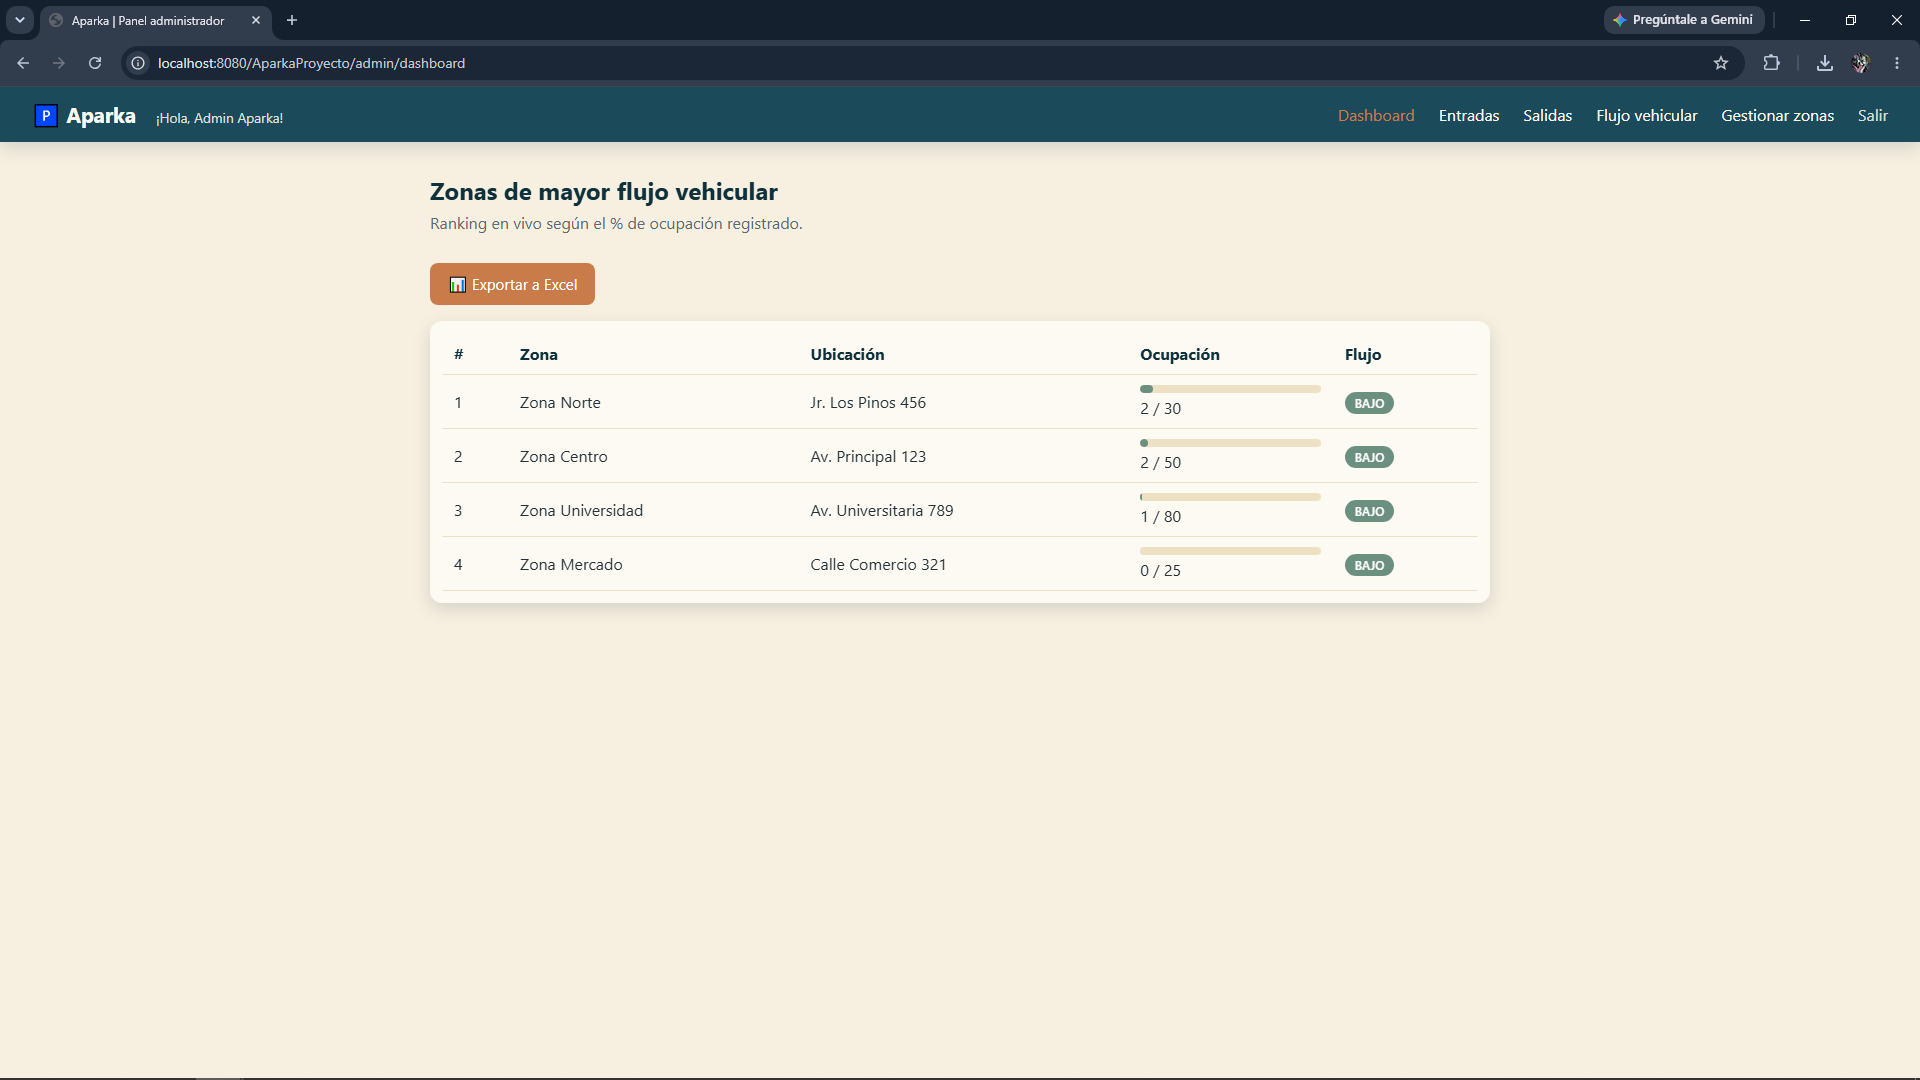
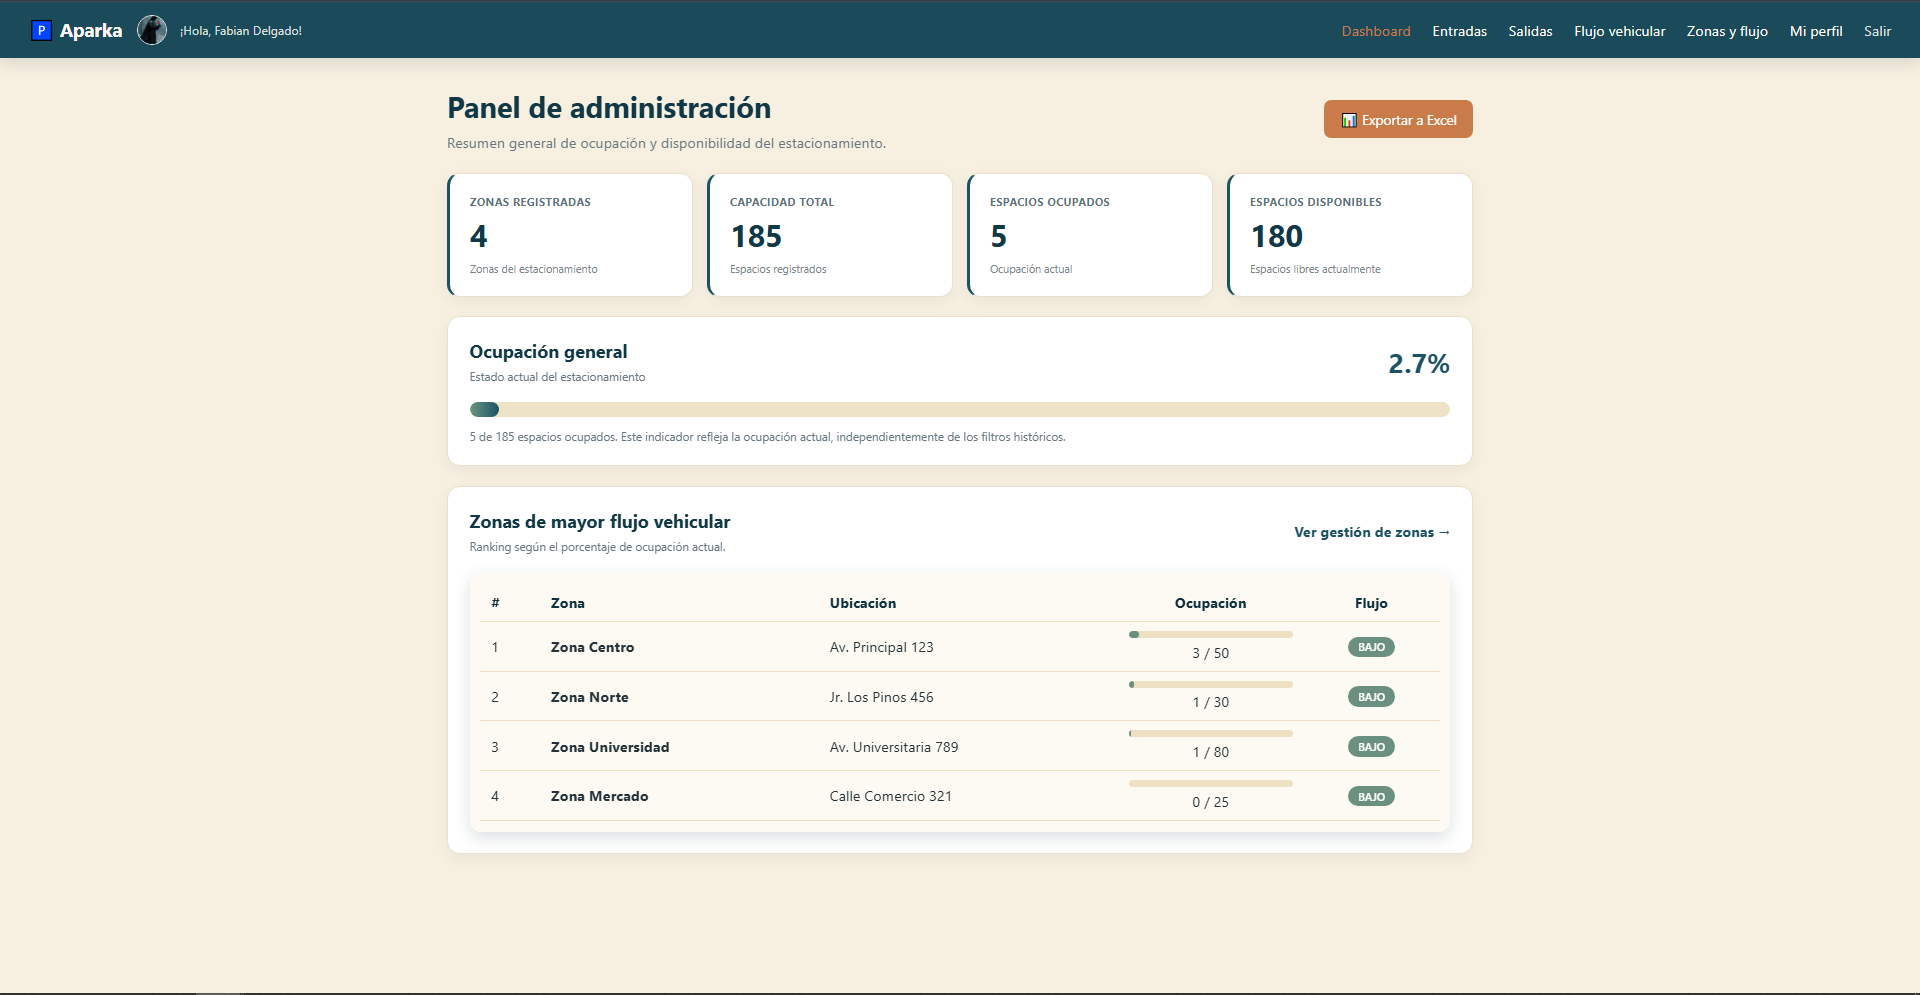
docs: actualizar README APF3 y capturas de APARKA

diff --git a/README.md b/README.md
@@ -1,99 +1,190 @@
-# APARKA — Sistema web de gestión de estacionamientos
+# 🅿 APARKA — Sistema web de gestión de estacionamientos
 
-Proyecto académico desarrollado en **Java (Servlets y JSP)** para gestionar operaciones de estacionamiento y consultar la ocupación y el flujo vehicular por zonas.
+**APARKA** es un proyecto académico desarrollado con **Java, Jakarta Servlets y JSP** para gestionar ingresos y salidas vehiculares, consultar disponibilidad y analizar el flujo de vehículos por zonas de estacionamiento.
 
-## Funcionalidades implementadas en el código
+![Java](https://img.shields.io/badge/Java-17%2B-orange) ![Jakarta](https://img.shields.io/badge/Jakarta-Servlets%20%26%20JSP-blue) ![MySQL](https://img.shields.io/badge/Base%20de%20datos-MySQL-4479A1) ![Maven](https://img.shields.io/badge/Build-Maven-C71A36) ![JUnit](https://img.shields.io/badge/JUnit-80%20pruebas%20aprobadas-25A162) ![Tomcat](https://img.shields.io/badge/Servidor-Tomcat%2011-F8DC75)
 
-- **Autenticación:** inicio y cierre de sesión, registro y recuperación de contraseña.
-- **Usuarios:** consulta de zonas, reserva, registro de entrada vehicular y edición de perfil/foto.
-- **Administración:** dashboard, consulta de flujo vehicular, mapa de calor, gestión de zonas, registro de entradas y salidas, gestión de cajas y exportación de reportes Excel.
+> **Estado verificado el 23/10/2026:** el Pull Request [#3](https://github.com/Nicolas130599/AparkaProyecto/pull/3) se fusionó a `main`; `mvn clean verify` finalizó con **BUILD SUCCESS**, **80 pruebas**, **0 fallos**, **0 errores** y **0 omitidas**. Las verificaciones manuales realizadas abarcaron inicio de sesión, navegación básica por roles, cierre de sesión y bloqueo del dashboard administrativo sin autorización. Esto no constituye una auditoría de seguridad ni una prueba integral de todos los módulos.
 
-> El funcionamiento de cada módulo depende de contar con la base de datos y los servicios configurados. Esta lista describe módulos presentes en el repositorio, no una certificación de pruebas de extremo a extremo.
+## ✨ Funcionalidades
 
-## Capturas disponibles
-
-| Inicio de sesión | Zonas | Dashboard |
-|---|---|---|
-| ![Login](docs/screenshots/login.png) | ![Zonas](docs/screenshots/zonas.png) | ![Dashboard](docs/screenshots/dashboard.png) |
-
-## Tecnologías
-
-- Java 17 como versión objetivo de compilación (`pom.xml`); JDK 17 o superior compatible.
-- Jakarta Servlet 6.0, JSP/JSTL, HTML, CSS y JavaScript.
-- MySQL con JDBC y `PreparedStatement`.
-- Apache Maven, empaquetado WAR y Apache Tomcat 11.
-- JUnit 5 y Maven Surefire para pruebas automatizadas.
-
-### Librerías solicitadas en APF3
-
-| Librería | Uso verificable en el código |
+| Rol | Funcionalidades disponibles en el código |
 |---|---|
-| Google Guava | `Preconditions` en `com.aparka.util.ValidacionUtil` |
+| **Usuario** | Inicio y cierre de sesión, registro y recuperación de contraseña, consulta de zonas y tarifas, reserva, registro de ingreso vehicular y administración de perfil/fotografía. |
+| **Administrador** | Panel de indicadores, registro de entradas y salidas, historial de flujo vehicular, mapa de calor, gestión de zonas y cajeros, administración de perfil y exportación de reportes Excel. |
+
+## 📸 Galería de capturas
+
+Las imágenes corresponden a una ejecución local de APARKA con datos de demostración. Las pantallas ilustran las interfaces; no acreditan por sí solas todas las operaciones de extremo a extremo.
+
+### Acceso al sistema
+
+**Inicio de sesión** — formulario de autenticación para los roles de usuario y administrador.
+
+![Inicio de sesión de APARKA](docs/screenshots/login.png)
+
+### Panel de administrador
+
+**Dashboard** — capacidad, ocupación, disponibilidad y ranking de zonas.
+
+![Dashboard administrativo](docs/screenshots/dashboard.png)
+
+| Registro de entradas | Registro de salidas |
+|---|---|
+| ![Registro de entradas](docs/screenshots/entradas_admin.png) | ![Registro de salidas](docs/screenshots/salidas_admin.png) |
+
+**Flujo vehicular** — historial de ingresos y salidas con filtros por fecha, zona y tipo.
+
+![Historial de flujo vehicular](docs/screenshots/flujo_vehicular.png)
+
+**Zonas y flujo** — indicadores, mapa de calor, gestión de zonas y cajeros.
+
+![Mapa de calor y gestión de zonas](docs/screenshots/mapa_calor.png)
+
+| Gestión de zonas y resumen por nivel | Cajeros y módulos de pago |
+|---|---|
+| ![Gestión de zonas](docs/screenshots/gestion_zonas.png) | ![Cajeros y módulos de pago](docs/screenshots/cajeros.png) |
+
+**Perfil de administrador** — información personal, fotografía y opciones de cambio de contraseña.
+
+![Perfil de administrador](docs/screenshots/perfil_admin.png)
+
+### Panel de usuario
+
+**Zonas disponibles** — consulta de ocupación, capacidad, tarifas y acceso al registro vehicular.
+
+![Zonas disponibles para el usuario](docs/screenshots/zonas_usuario.png)
+
+**Registrar ingreso vehicular** — formulario de placa con una zona previamente seleccionada.
+
+![Registro de ingreso vehicular de usuario](docs/screenshots/ingreso_usuario.png)
+
+**Perfil de usuario** — información personal, fotografía y opciones de seguridad de la cuenta.
+
+![Perfil de usuario](docs/screenshots/perfil_usuario.png)
+
+## 🧰 Tecnologías
+
+- **Java 17** como objetivo de compilación del proyecto; JDK compatible.
+- **Jakarta Servlets, JSP/JSTL**, HTML, CSS y JavaScript.
+- **MySQL** mediante JDBC y consultas parametrizadas con `PreparedStatement`.
+- **Apache Maven**, empaquetado **WAR** y **Apache Tomcat 11**.
+- **JUnit 5** y Maven Surefire para pruebas automatizadas.
+
+### Librerías utilizadas
+
+| Librería | Aplicación en APARKA |
+|---|---|
+| Google Guava | `Preconditions` en `ValidacionUtil` |
 | Apache Commons Lang / Validator | `StringUtils` y `EmailValidator` en `ValidacionUtil` |
-| Apache POI | `XSSFWorkbook` en `com.aparka.controller.ReporteExcelServlet` |
-| Logback / SLF4J | Configuración `logback.xml` y registros de eventos desde controladores y utilidades |
+| Apache POI | `XSSFWorkbook` en `ReporteExcelServlet` |
+| Logback / SLF4J | Configuración de registros y eventos de aplicación |
+| jBCrypt | Hash y verificación de contraseñas en `PasswordUtils` |
 
-Las dependencias están declaradas en `pom.xml`.
+Las dependencias se administran desde `pom.xml`.
 
-## Arquitectura y patrones
+## 🏗 Arquitectura
 
 ```text
-src/main/java/com/aparka/
-├── controller/  → Servlets: recepción de solicitudes HTTP
-├── service/     → Servicios de aplicación (p. ej. ZonaService)
-├── dao/         → Acceso a datos (p. ej. ZonaDAO, UsuarioSistemaDAO)
-├── model/       → Entidades y modelos de dominio
-└── util/        → Validación, conexión, seguridad y utilidades
-src/main/webapp/
-├── views/       → Vistas JSP
-├── css/         → Estilos
-└── js/          → Comportamiento de interfaz
+src/
+├── main/
+│   ├── java/com/aparka/
+│   │   ├── controller/  # Servlets y solicitudes HTTP
+│   │   ├── service/     # Servicios de aplicación
+│   │   ├── dao/         # Acceso a datos
+│   │   ├── model/       # Entidades y modelos
+│   │   └── util/        # Validación, conexión y seguridad
+│   └── webapp/
+│       ├── views/       # Vistas JSP
+│       ├── css/         # Estilos
+│       └── js/          # Comportamiento del cliente
+└── test/java/           # Pruebas JUnit
 ```
 
-- **MVC:** controladores Servlet, modelos Java y vistas JSP.
-- **DAO:** consultas SQL encapsuladas en clases de acceso a datos.
-- **SOLID:** existe separación de responsabilidades; la conformidad con cada principio debe argumentarse por clase y no se considera automáticamente demostrada por usar paquetes.
-- **TDD:** existen pruebas automatizadas JUnit 5, pero el proceso *prueba antes que implementación* solo puede acreditarse mediante evidencias del historial de desarrollo.
+Se utilizan separación **MVC** (Servlets, modelos y JSP) y clases **DAO** para encapsular el acceso a datos. La existencia de esta organización no demuestra por sí sola cumplimiento integral de SOLID ni un proceso TDD estricto.
 
-## Instalación local
+## 🔐 Seguridad
+
+Controles implementados en el código:
+
+- **BCrypt:** almacenamiento de contraseñas como hashes y verificación mediante `PasswordUtils`.
+- **CSRF:** validación de tokens en las rutas POST protegidas por `CsrfFilter`.
+- **Validación de entradas:** reglas de formato y contenido en `ValidacionUtil`.
+- **Autorización por rol:** `RoleFilter` restringe las rutas `/admin/*`.
+- **Sesiones:** renovación del identificador de sesión tras autenticación exitosa.
+- **Intentos de acceso:** limitación de intentos fallidos de inicio de sesión.
+- **Base de datos:** consultas parametrizadas y operaciones transaccionales para controlar la capacidad de las zonas.
+- **Secretos:** la conexión MySQL requiere variables de entorno, sin credenciales fijas en `ConexionBD`.
+
+**Alcance:** los controles anteriores no equivalen a una auditoría de seguridad completa. Deben seguir revisándose los permisos de cada endpoint, la configuración de cookies/sesiones, el despliegue y la gestión de secretos.
+
+> **Advertencia sobre el historial:** versiones anteriores del repositorio público contenían credenciales. Retirarlas del código actual no las elimina de los commits históricos. Es necesario **revocar o rotar** cualquier secreto expuesto, incluidas credenciales MySQL y SMTP. No reescribir el historial compartido sin coordinarlo con el equipo.
+
+## 🧪 Pruebas automatizadas
+
+Ejecutar desde la raíz del proyecto:
+
+```bash
+mvn clean verify
+```
+
+**Última ejecución verificada: 23 de octubre de 2026.**
+
+| Clase de prueba | Pruebas | Fallos | Errores |
+|---|---:|---:|---:|
+| `EntradaDAOTest` | 3 | 0 | 0 |
+| `MapaCalorTest` | 6 | 0 | 0 |
+| `ResumenNivelTest` | 3 | 0 | 0 |
+| `ZonaTest` | 10 | 0 | 0 |
+| `FotoPerfilUtilTest` | 7 | 0 | 0 |
+| `LoginAttemptLimiterTest` | 6 | 0 | 0 |
+| `ValidacionUtilTest` | 45 | 0 | 0 |
+| **Total** | **80** | **0** | **0** |
+
+Resultado: **BUILD SUCCESS**, con **0 pruebas omitidas**. La compilación generó `target/AparkaProyecto.war`. Algunas pruebas requieren una base MySQL de pruebas aislada (`parking_test`); **no ejecutar pruebas que escriben datos contra la base de producción**.
+
+## 🚀 Instalación local
 
 ### Requisitos
 
-JDK 17+, Maven, Tomcat 11 y MySQL. Para ejecutar módulos que envían correo, se requiere una cuenta SMTP configurada.
+- JDK compatible con el objetivo Java 17 del proyecto.
+- Apache Maven.
+- Apache Tomcat 11.
+- MySQL y una base de datos preparada para APARKA.
+- Configuración SMTP, solo para las funcionalidades que envían correos.
 
-### 1. Obtener el proyecto
+### 1. Clonar
 
 ```bash
 git clone https://github.com/Nicolas130599/AparkaProyecto.git
 cd AparkaProyecto
 ```
 
-### 2. Preparar MySQL
+### 2. Preparar la base de datos
 
-El repositorio incluye el archivo **`schema (1).sql`**, que crea la base `Parking` y sus tablas iniciales. Revisa el script y cualquier dato de demostración antes de ejecutarlo; úsalo solo en una base de prueba o con respaldo. La clase `InicializadorEsquema` verifica/agrega determinadas columnas al arrancar la aplicación, por lo que el script por sí solo no documenta todas las ampliaciones de esquema.
+El repositorio incluye `schema (1).sql`, que define una estructura inicial para `Parking`. **Revisar el script y respaldar los datos antes de ejecutarlo**. La aplicación incluye lógica adicional de actualización/verificación de esquema (`InicializadorEsquema`); por tanto, el script inicial no describe necesariamente todas las ampliaciones posteriores.
 
-### 3. Configurar credenciales sin escribirlas en el código
+### 3. Configurar variables de entorno
 
-La clase `ConexionBD` admite estas variables de entorno:
+`ConexionBD` **exige** las tres variables siguientes (sin valores por defecto):
 
-| Variable | Uso |
+| Variable | Descripción |
 |---|---|
-| `APARKA_DB_PASSWORD` | Contraseña del usuario MySQL |
-| `APARKA_DB_USER` | Usuario MySQL; por defecto `root` |
-| `APARKA_DB_URL` | URL JDBC opcional; por defecto intenta `localhost:3307` y `localhost:3306`, base `Parking` |
-| `APARKA_EMAIL_PASSWORD` | Contraseña de aplicación para el correo SMTP, cuando corresponda |
+| `APARKA_DB_URL` | URL JDBC de la base de datos correspondiente al entorno |
+| `APARKA_DB_USER` | Usuario de MySQL |
+| `APARKA_DB_PASSWORD` | Contraseña del usuario de MySQL |
 
-En **PowerShell**, para la sesión actual (sin guardar contraseñas en archivos):
+Para un ejemplo local con PowerShell (sustituir los valores según el entorno):
 
 ```powershell
-$env:APARKA_DB_USER = "root"
-$env:APARKA_DB_PASSWORD = Read-Host "Contraseña de MySQL"
-# Opcional: $env:APARKA_DB_URL = "jdbc:mysql://localhost:3307/Parking?useSSL=false&serverTimezone=UTC"
+$env:APARKA_DB_URL = 'jdbc:mysql://localhost:3307/Parking?serverTimezone=UTC'
+$env:APARKA_DB_USER = Read-Host 'Usuario MySQL'
+$env:APARKA_DB_PASSWORD = Read-Host 'Contraseña MySQL'
 ```
 
-Si necesitas enviar correos, configura `APARKA_EMAIL_PASSWORD` de manera segura antes de iniciar Tomcat. **Inicia Tomcat desde una consola que tenga acceso a estas variables**; los procesos ya abiertos no reciben automáticamente los cambios del entorno.
+Estas asignaciones duran únicamente en la sesión actual. **Tomcat debe iniciarse desde un proceso que reciba las variables**; si se inicia mediante `startup.bat` desde otra sesión de Windows, verificar que ese proceso tenga acceso a ellas. No publicar valores reales en GitHub.
 
-> El proyecto usa `aparkasystem@gmail.com` como remitente SMTP en `EmailUtil.java`. El envío debe probarse por separado; no se garantiza únicamente por compilar.
+Para correo SMTP, configurar `APARKA_EMAIL_PASSWORD` de forma segura cuando corresponda. El envío de correo debe verificarse por separado.
 
 ### 4. Compilar y desplegar
 
@@ -101,44 +192,25 @@ Si necesitas enviar correos, configura `APARKA_EMAIL_PASSWORD` de manera segura 
 mvn clean package
 ```
 
-Copia `target/AparkaProyecto.war` a `webapps/` de Tomcat 11, inicia Tomcat y visita:
+Copiar `target/AparkaProyecto.war` a la carpeta `webapps/` de Tomcat 11 y arrancar el servidor mediante `bin/startup.bat` en Windows. Acceder a:
 
-`http://localhost:8080/AparkaProyecto/`
-
-**No publiques credenciales ni cuentas de prueba reales en este documento.** Crea cuentas de prueba mediante el procedimiento de registro o mediante datos de prueba preparados para tu entorno.
-
-## Pruebas
-
-```bash
-mvn test
+```text
+http://localhost:8080/AparkaProyecto/
 ```
 
-El código contiene cinco clases de pruebas JUnit 5:
+En la verificación manual del 23/10/2026, el acceso sin sesión redirigió a `/AparkaProyecto/login`. La instalación de un nuevo WAR **no ocurre automáticamente** al compilar con Maven.
 
-- `FotoPerfilUtilTest`
-- `ValidacionUtilTest`
-- `ResumenNivelTest`
-- `MapaCalorTest`
-- `ZonaTest`
+## 🌿 Control de versiones
 
-En la última compilación comprobada durante el trabajo del equipo se reportaron **55 pruebas ejecutadas, 0 fallos y 0 errores**. Vuelve a ejecutar `mvn test` en tu entorno para obtener una evidencia actualizada.
+- Repositorio: [Nicolas130599/AparkaProyecto](https://github.com/Nicolas130599/AparkaProyecto)
+- Rama principal: `main`.
+- Pull Request [#3 — Seguridad CSRF, validaciones y pruebas](https://github.com/Nicolas130599/AparkaProyecto/pull/3): **fusionado y cerrado el 23/10/2026**.
+- Los cambios se verificaron en `main` con 80 pruebas JUnit satisfactorias.
 
-## Seguridad: controles y aspectos por revisar
+## 📚 Documentación académica
 
-**Controles identificados:** contraseñas de usuarios con BCrypt (`PasswordUtils` y `UsuarioSistemaDAO`), consultas preparadas con JDBC, validaciones del lado del servidor y filtro de acceso a rutas `/admin/*` mediante `RoleFilter`.
-
-**Revisiones pendientes:** protección CSRF en operaciones que modifican datos, endurecimiento de sesiones/cookies, controles de autorización en todos los endpoints y gestión segura de secretos. No se declara una auditoría de seguridad completa.
-
-**Aviso importante:** el repositorio público tuvo credenciales reales en versiones anteriores. Retirarlas del código actual **no las elimina del historial**. Se deben revocar o rotar las contraseñas expuestas (MySQL y contraseña de aplicación de Gmail) y actualizar las variables de entorno. Si se decide limpiar el historial de Git, coordinarlo con el equipo y no reescribirlo sin un plan.
-
-## Control de versiones
-
-El proyecto se mantiene en GitHub mediante Git. La rama principal es `main`. Para mostrar avances al docente, conservar el historial de commits y documentar qué funcionalidades se entregaron en cada versión.
-
-## Documentación del APF3
-
-Los diagramas UML, la sustentación y los anexos académicos pueden entregarse por separado. Deben reflejar las clases y funcionalidades realmente presentes en este repositorio.
+Los diagramas UML, las evidencias y los anexos del APF3 pueden entregarse por separado. Deben reflejar las funcionalidades y el código realmente presentes en el repositorio.
 
 ---
 
-Proyecto académico APARKA.
+**APARKA · Proyecto académico de Ingeniería de Sistemas.**
